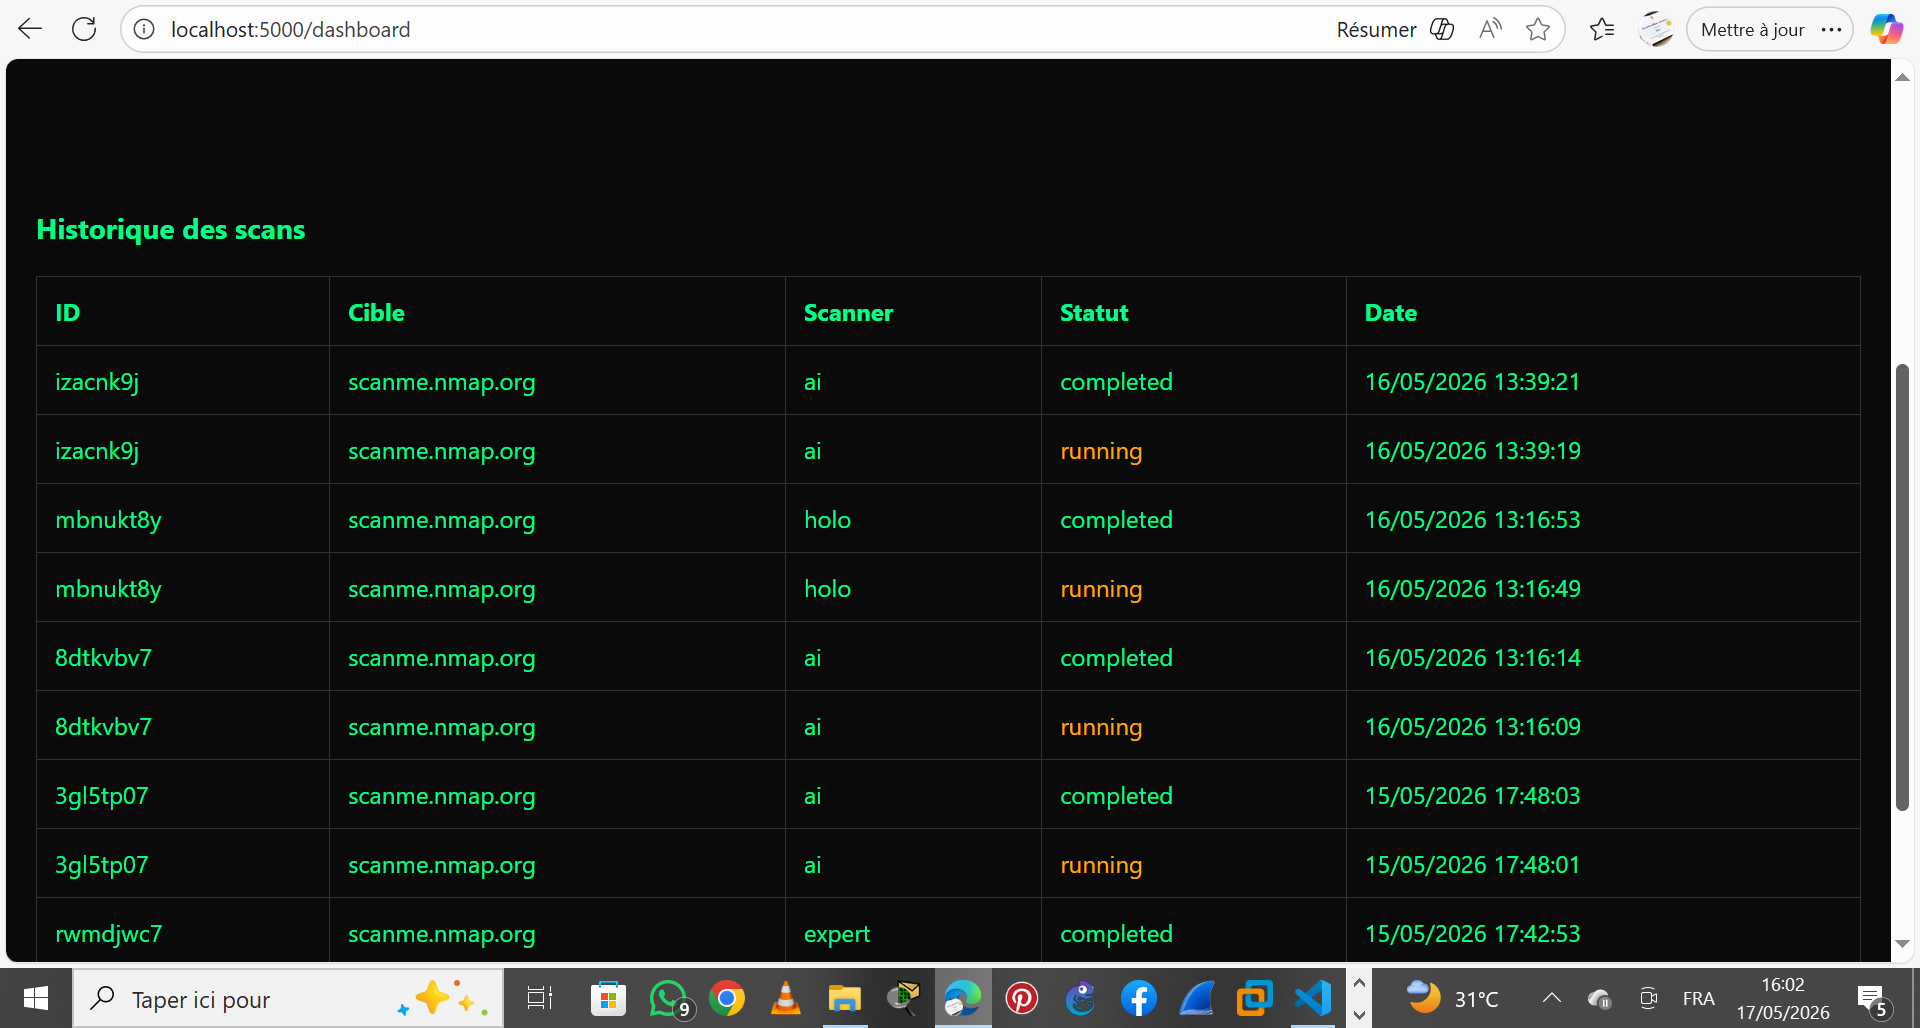
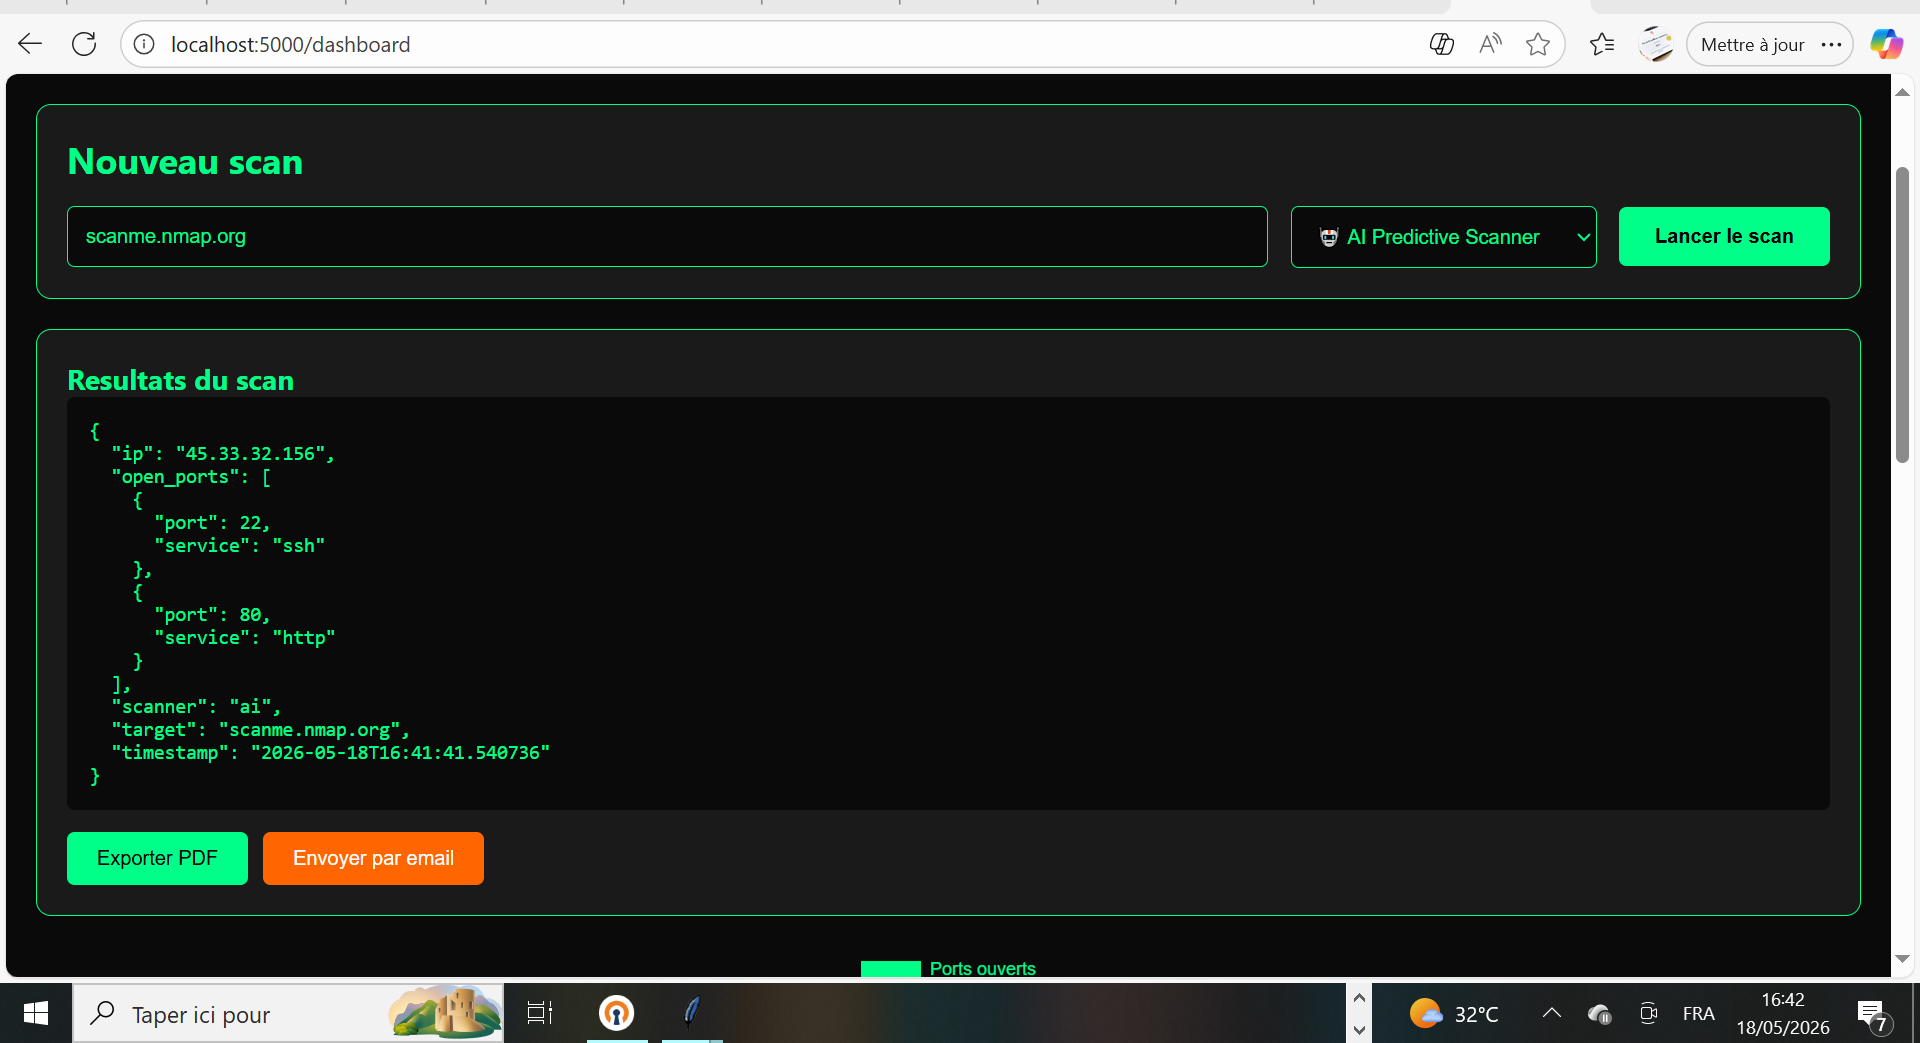
Site complet SENTRAX - Version finale

diff --git a/index.html b/index.html
@@ -25,8 +25,7 @@
                 <li><a href="https://github.com/Ndaye12/SentraX">GitHub</a></li>
             </ul>
             <div class="lang-switch">
-                <a href="index.html" class="lang-active">FR</a> | 
-                <a href="index_en.html">EN</a>
+                <a href="index.html" class="lang-active">FR</a>
             </div>
         </div>
     </nav>
@@ -41,7 +40,7 @@
                 <span class="badge">📊 10 Scanners</span>
                 <span class="badge">🔐 API REST</span>
             </div>
-            <a href="https://drive.google.com/file/d/1eAF6jd7SQevbYkc42Rr-ZNJ_7wKJ0wqY/view?usp=sharing" class="download-btn">
+            <a href="https://drive.google.com/file/d/1Dn01CZFKGJ6BHd5LoU9qTSFieCJYBlGz/view?usp=sharing" class="download-btn">
                 📥 TÉLÉCHARGER SENTRAX v3.1
             </a>
             <div class="download-info">

diff --git a/security.html b/security.html
@@ -33,7 +33,7 @@
                 <li><a href="security.html" class="active">Sécurité</a></li>
                 <li><a href="https://github.com/Ndaye12/SentraX">GitHub</a></li>
             </ul>
-            <div class="lang-switch"><a href="security.html" class="lang-active">FR</a> | <a href="security_en.html">EN</a></div>
+            <div class="lang-switch"><a href="security.html" class="lang-active">FR</a></div>
         </div>
     </nav>
 

diff --git a/features.html b/features.html
@@ -18,7 +18,7 @@
                 <li><a href="security.html">Sécurité</a></li>
                 <li><a href="https://github.com/Ndaye12/SentraX">GitHub</a></li>
             </ul>
-            <div class="lang-switch"><a href="features.html" class="lang-active">FR</a> | <a href="features_en.html">EN</a></div>
+            <div class="lang-switch"><a href="features.html" class="lang-active">FR</a></div>
         </div>
     </nav>
 
